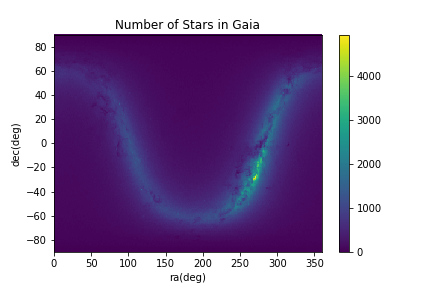
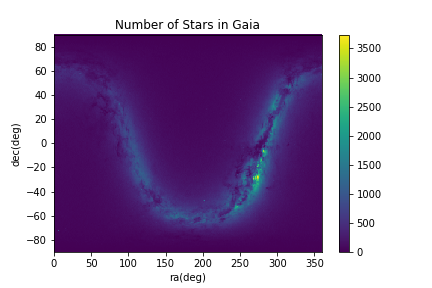
used new data of straight cut off to replot direction dependenc. Took out log norm. Took out distance < 2 cut

diff --git a/Code/selection/direction dependence/direction dependence.py b/Code/selection/direction dependence/direction dependence.py
@@ -4,8 +4,8 @@ from astropy.table import Table
 from matplotlib.colors import LogNorm
 
 # get data from fits file
-data_g = Table.read("gaia_data_adjusted_for_rv.fits")
-data_rv = Table.read("gaia_intersection_with_rv.fits")
+data_g = Table.read("gaia_data_with_straight_cutoff.fits")
+data_rv = Table.read("gaia_rv_with_straight_cutoff.fits")
 # get coordinates of both gaia and rv
 ra_g = data_g['ra']
 dec_g = data_g['dec']
@@ -16,12 +16,12 @@ parallax_rv = data_rv['parallax']
 # get distance
 distance_g = 1/parallax_g # in kpc
 distance_rv = 1/parallax_rv # in kpc
-# get rid of stars with negative distance and distance further than 2kpc
-mask_g = np.all(np.array([distance_g>0,distance_g<2]), axis = 0)
+# get rid of stars with negative distance
+mask_g = distance_g>0
 ra_g = ra_g[mask_g]
 dec_g = dec_g[mask_g]
 distance_g =distance_g[mask_g]
-mask_rv = np.all(np.array([distance_rv>0,distance_rv<2]), axis = 0)
+mask_rv = distance_rv>0
 ra_rv = ra_rv[mask_rv]
 dec_rv = dec_rv[mask_rv]
 distance_rv = distance_rv[mask_rv]
@@ -89,7 +89,8 @@ z = ratio(ra_v, dec_v)
 # change nan to zero
 z = np.nan_to_num(z)
 plt.figure(3)
-plt.pcolor(ra_v, dec_v, z, norm = LogNorm())
+#plt.pcolor(ra_v, dec_v, z, norm = LogNorm())
+plt.pcolor(ra_v, dec_v, z)
 plt.colorbar()
 plt.xlabel('ra(deg)')
 plt.ylabel('dec(deg)')
